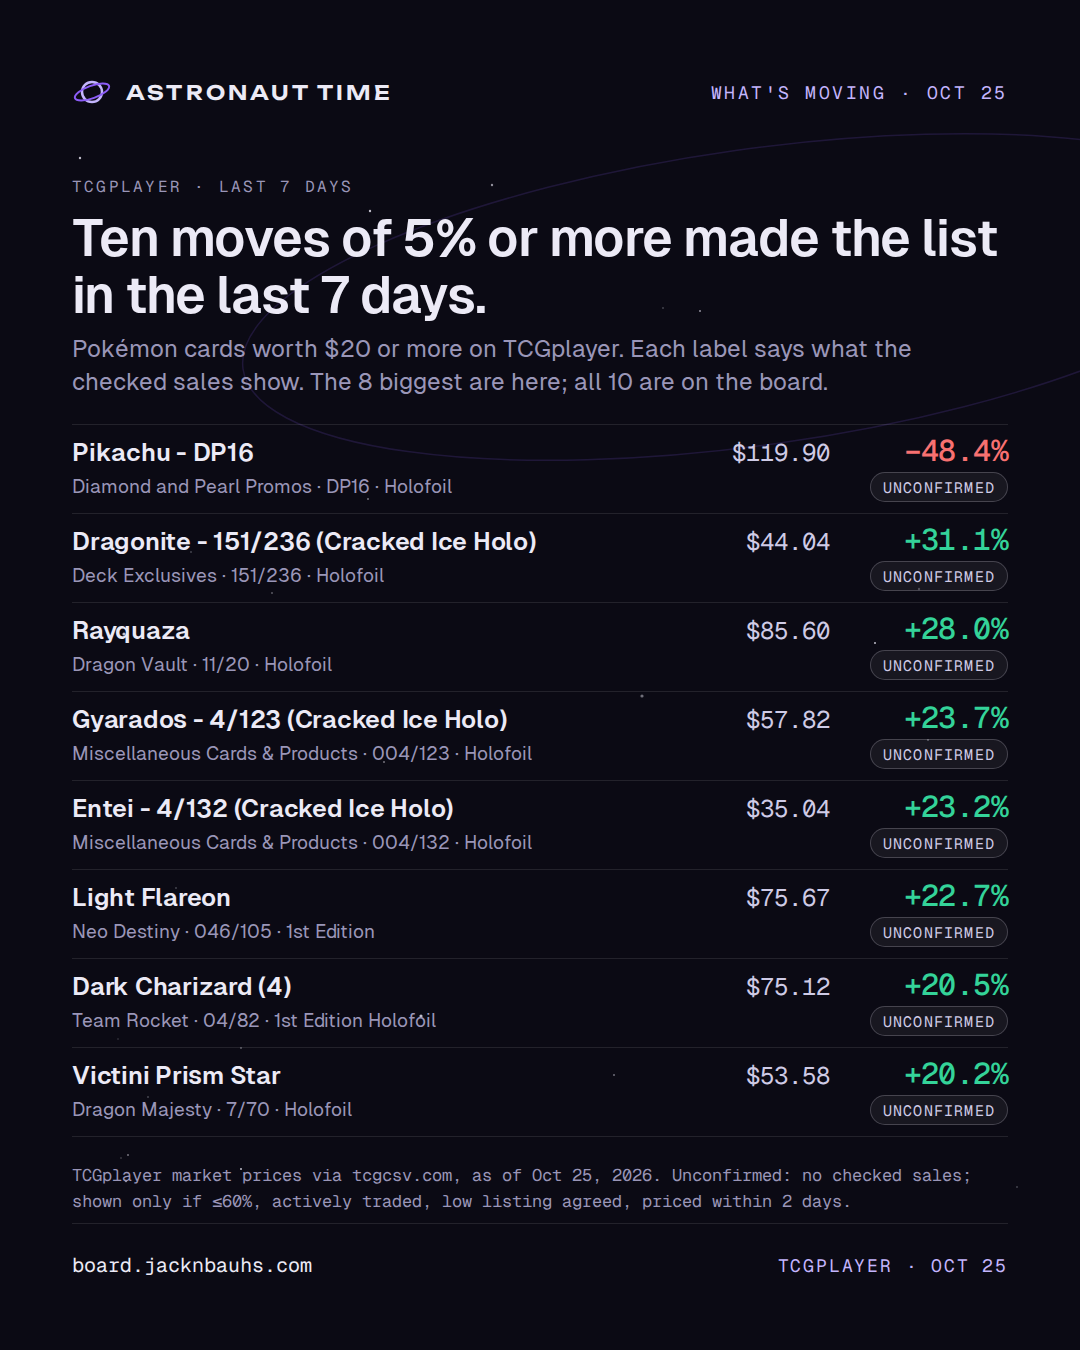
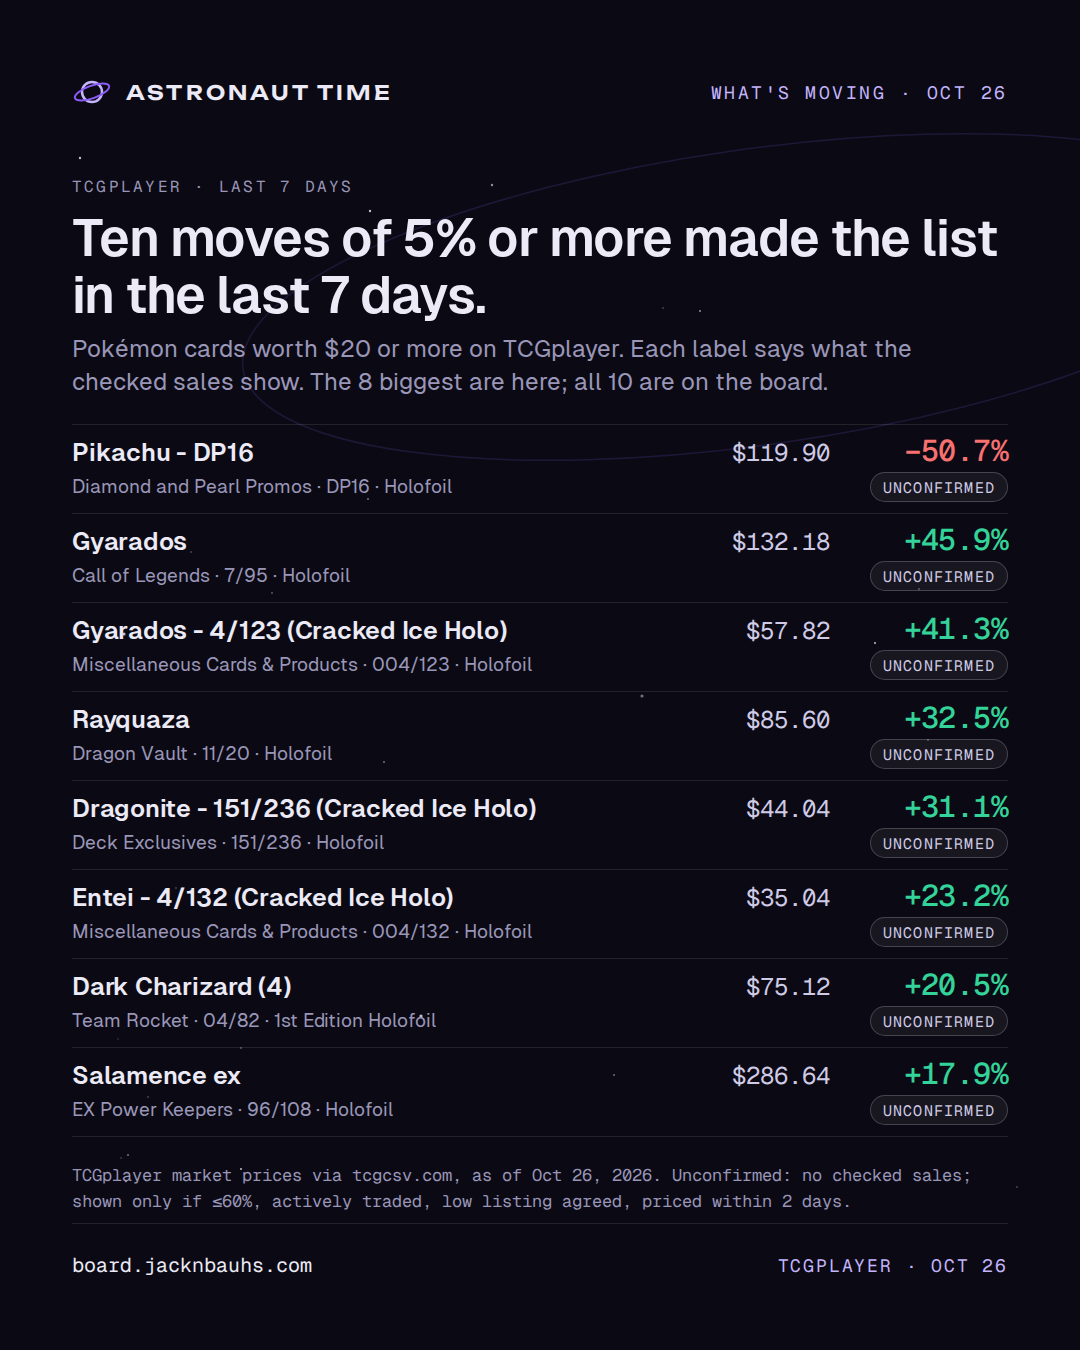
Share kit: render 2026-10-27

diff --git a/card.html b/card.html
@@ -10,14 +10,14 @@
 <meta property="og:url" content="https://board.jacknbauhs.com/card.html">
 <meta property="og:type" content="website">
 <meta property="og:site_name" content="Astronaut Time">
-<meta property="og:image" content="https://board.jacknbauhs.com/assets/og.png?v=2026-10-26">
+<meta property="og:image" content="https://board.jacknbauhs.com/assets/og.png?v=2026-10-27">
 <meta property="og:image:width" content="1200">
 <meta property="og:image:height" content="630">
 <meta property="og:image:alt" content="Mission Control by Astronaut Time: the card market, with the fake sales taken out.">
 <meta name="twitter:card" content="summary_large_image">
 <meta name="twitter:title" content="Card · Mission Control · Astronaut Time">
 <meta name="twitter:description" content="The card market, with the fake sales taken out.">
-<meta name="twitter:image" content="https://board.jacknbauhs.com/assets/og.png?v=2026-10-26">
+<meta name="twitter:image" content="https://board.jacknbauhs.com/assets/og.png?v=2026-10-27">
 <meta name="theme-color" content="#0B0A14">
 <link rel="icon" href="assets/favicon.svg" type="image/svg+xml">
 <link rel="preconnect" href="https://fonts.googleapis.com">

diff --git a/404.html b/404.html
@@ -10,14 +10,14 @@
 <meta property="og:url" content="https://board.jacknbauhs.com/">
 <meta property="og:type" content="website">
 <meta property="og:site_name" content="Astronaut Time">
-<meta property="og:image" content="https://board.jacknbauhs.com/assets/og.png?v=2026-10-26">
+<meta property="og:image" content="https://board.jacknbauhs.com/assets/og.png?v=2026-10-27">
 <meta property="og:image:width" content="1200">
 <meta property="og:image:height" content="630">
 <meta property="og:image:alt" content="Mission Control by Astronaut Time: the card market, with the fake sales taken out.">
 <meta name="twitter:card" content="summary_large_image">
 <meta name="twitter:title" content="Mission Control · Astronaut Time">
 <meta name="twitter:description" content="The card market, with the fake sales taken out.">
-<meta name="twitter:image" content="https://board.jacknbauhs.com/assets/og.png?v=2026-10-26">
+<meta name="twitter:image" content="https://board.jacknbauhs.com/assets/og.png?v=2026-10-27">
 <meta name="theme-color" content="#0B0A14">
 <link rel="icon" href="/assets/favicon.svg" type="image/svg+xml">
 <link rel="preconnect" href="https://fonts.googleapis.com">

diff --git a/index.html b/index.html
@@ -10,14 +10,14 @@
 <meta property="og:url" content="https://board.jacknbauhs.com/">
 <meta property="og:type" content="website">
 <meta property="og:site_name" content="Astronaut Time">
-<meta property="og:image" content="https://board.jacknbauhs.com/assets/og.png?v=2026-10-26">
+<meta property="og:image" content="https://board.jacknbauhs.com/assets/og.png?v=2026-10-27">
 <meta property="og:image:width" content="1200">
 <meta property="og:image:height" content="630">
 <meta property="og:image:alt" content="Mission Control by Astronaut Time: the card market, with the fake sales taken out.">
 <meta name="twitter:card" content="summary_large_image">
 <meta name="twitter:title" content="Mission Control · Astronaut Time">
 <meta name="twitter:description" content="The card market, with the fake sales taken out.">
-<meta name="twitter:image" content="https://board.jacknbauhs.com/assets/og.png?v=2026-10-26">
+<meta name="twitter:image" content="https://board.jacknbauhs.com/assets/og.png?v=2026-10-27">
 <meta name="theme-color" content="#0B0A14">
 <link rel="icon" href="assets/favicon.svg" type="image/svg+xml">
 <link rel="preconnect" href="https://fonts.googleapis.com">

diff --git a/share/out/captions.md b/share/out/captions.md
@@ -1,10 +1,10 @@
-# Captions, board data of 2026-10-26
+# Captions, board data of 2026-10-27
 
 One block per image. Caption first, alt text second. Plain facts, the source and the board link; nothing here is a buy.
 
 ## Before you post
 
-- ✅ Prices are from Oct 25, 2026.
+- ✅ Prices are from Oct 26, 2026.
 - ⚠ All 10 on the 7-day list are unconfirmed: no checked sale behind any. Keep "unconfirmed" in the post and call them price moves, not sales.
 - ⚠ All 10 on the since-yesterday list are unconfirmed: no checked sale behind any. Keep "unconfirmed" in the post and call them price moves, not sales.
 
@@ -44,8 +44,8 @@ Three calls on the record. #001: The 30th Celebration Booster Bundle's premium c
 
 Alt: Three calls on the record. Number 001: The 30th Celebration Booster Bundle's premium collapses once it ships Oct 2. The ETB holds its premium better. Number 002: Base Set Charizard PSA 10 holds its price. The graded population is closed, so the reprint can't enter it. Number 003: Raw Base Set Charizard is down 10% or more by Oct 30. The reprint lands on the raw copies.
 
-## moving-2026-W43.png
+## moving-2026-W44.png
 
-What's moving on TCGplayer, as of Oct 25, 2026. Ten moves of 5% or more made the list in the last 7 days. Pikachu - DP16 (Diamond and Pearl Promos · DP16 · Holofoil): $119.90, −48.4%, unconfirmed. Dragonite - 151/236 (Cracked Ice Holo) (Deck Exclusives · 151/236 · Holofoil): $44.04, +31.1%, unconfirmed. Rayquaza (Dragon Vault · 11/20 · Holofoil): $85.60, +28.0%, unconfirmed. Gyarados - 4/123 (Cracked Ice Holo) (Miscellaneous Cards & Products · 004/123 · Holofoil): $57.82, +23.7%, unconfirmed. Entei - 4/132 (Cracked Ice Holo) (Miscellaneous Cards & Products · 004/132 · Holofoil): $35.04, +23.2%, unconfirmed. Light Flareon (Neo Destiny · 046/105 · 1st Edition): $75.67, +22.7%, unconfirmed. Dark Charizard (4) (Team Rocket · 04/82 · 1st Edition Holofoil): $75.12, +20.5%, unconfirmed. Victini Prism Star (Dragon Majesty · 7/70 · Holofoil): $53.58, +20.2%, unconfirmed. Unconfirmed: no checked sales; shown only if ≤60%, actively traded, low listing agreed, priced within 2 days. Source: TCGplayer market prices via tcgcsv.com, as of Oct 25, 2026. board.jacknbauhs.com
+What's moving on TCGplayer, as of Oct 26, 2026. Ten moves of 5% or more made the list in the last 7 days. Pikachu - DP16 (Diamond and Pearl Promos · DP16 · Holofoil): $119.90, −50.7%, unconfirmed. Gyarados (Call of Legends · 7/95 · Holofoil): $132.18, +45.9%, unconfirmed. Gyarados - 4/123 (Cracked Ice Holo) (Miscellaneous Cards & Products · 004/123 · Holofoil): $57.82, +41.3%, unconfirmed. Rayquaza (Dragon Vault · 11/20 · Holofoil): $85.60, +32.5%, unconfirmed. Dragonite - 151/236 (Cracked Ice Holo) (Deck Exclusives · 151/236 · Holofoil): $44.04, +31.1%, unconfirmed. Entei - 4/132 (Cracked Ice Holo) (Miscellaneous Cards & Products · 004/132 · Holofoil): $35.04, +23.2%, unconfirmed. Dark Charizard (4) (Team Rocket · 04/82 · 1st Edition Holofoil): $75.12, +20.5%, unconfirmed. Salamence ex (EX Power Keepers · 96/108 · Holofoil): $286.64, +17.9%, unconfirmed. Unconfirmed: no checked sales; shown only if ≤60%, actively traded, low listing agreed, priced within 2 days. Source: TCGplayer market prices via tcgcsv.com, as of Oct 26, 2026. board.jacknbauhs.com
 
 Alt: What's moving: the 8 biggest of the 10 TCGplayer moves on the list in the last 7 days, each with its market price, its change and the label for what checked sales show.
